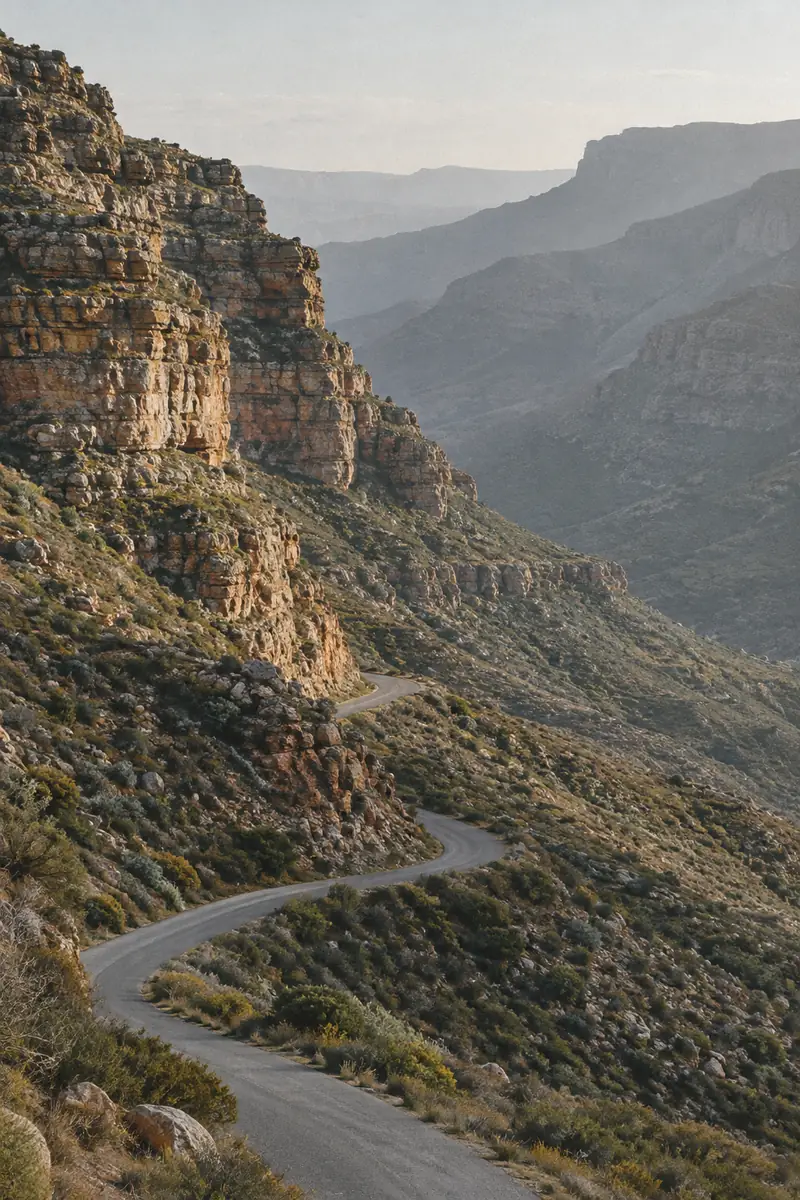
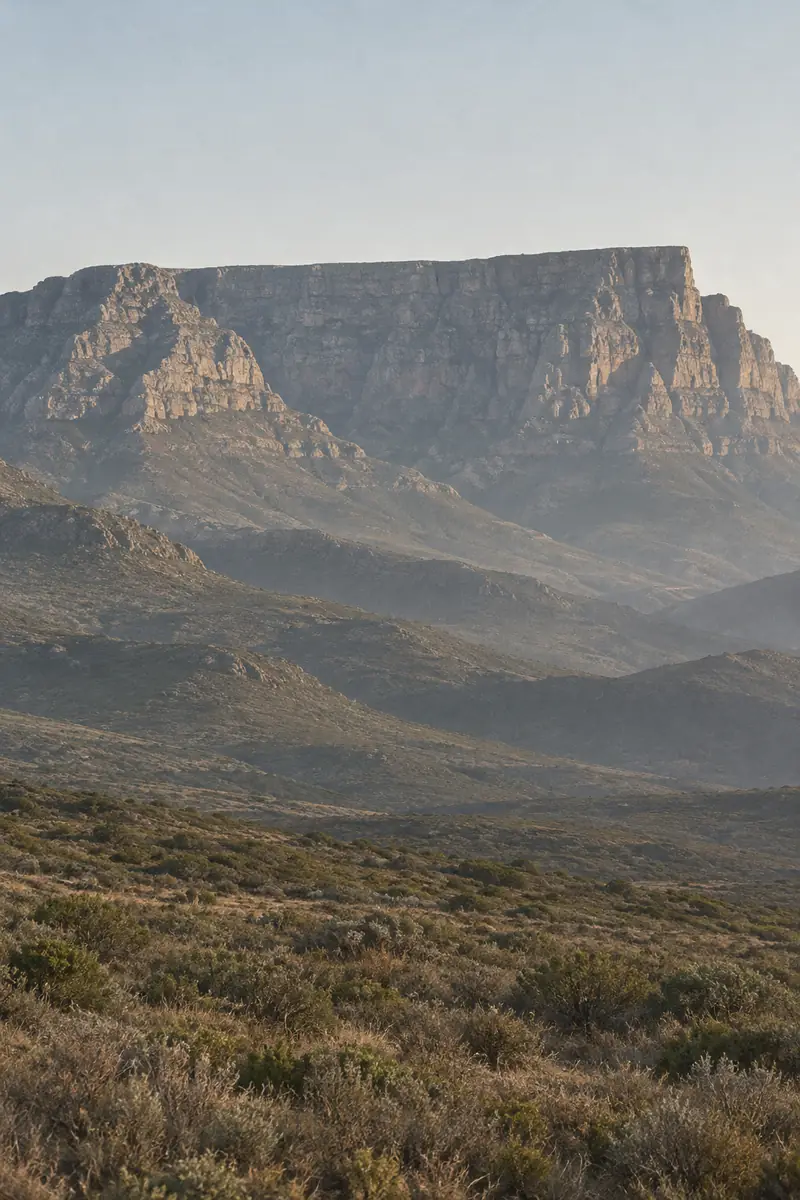
Put Table Mountain in the Mountain card
The card's caption says "Table Mountain and the passes behind it" and the
image was an unnamed sandstone pass. Regenerated with the flat summit in
frame, still empty landscape. Alt text and the recorded prompt follow it.

diff --git a/ar/index.html b/ar/index.html
@@ -186,7 +186,7 @@
     <div class="grid grid--3" style="margin-top:2.5rem">
       <article class="loc"><img class="loc__img" src="/assets/loc-dunes.webp" width="800" height="1200" loading="lazy" decoding="async" alt="حافة كثيب رملي في ضوء منخفض، مع تعرّجات الرمل."><div class="loc__body"><h3>كثبان أتلانتس</h3><p>أقرب ما في كيب تاون إلى مشهد الصحراء. يتطلّب تصريحاً ونقلاً بدفع رباعي.</p><span class="ph-label">صورة مرجعية مولّدة بالذكاء الاصطناعي، ليست من تصويرنا</span></div></article>
       <article class="loc"><img class="loc__img" src="/assets/loc-ocean.webp" width="800" height="1200" loading="lazy" decoding="async" alt="صخور غرانيتية داكنة على شاطئ أطلسي خالٍ تحت ضوء رمادي مستوٍ."><div class="loc__body"><h3>المحيط</h3><p>ساحل الأطلسي، ضوء بارد وأفق ممتد.</p><span class="ph-label">صورة مرجعية مولّدة بالذكاء الاصطناعي، ليست من تصويرنا</span></div></article>
-      <article class="loc"><img class="loc__img" src="/assets/loc-mountain.webp" width="800" height="1200" loading="lazy" decoding="async" alt="ممر جبلي من الحجر الرملي المتطبّق في ويسترن كيب، خالٍ في ضوء العصر."><div class="loc__body"><h3>الجبل</h3><p>جبل الطاولة والممرات خلفه.</p><span class="ph-label">صورة مرجعية مولّدة بالذكاء الاصطناعي، ليست من تصويرنا</span></div></article>
+      <article class="loc"><img class="loc__img" src="/assets/loc-mountain.webp" width="800" height="1200" loading="lazy" decoding="async" alt="قمة جبل الطاولة المسطّحة فوق منحدرات خالية في ضباب العصر."><div class="loc__body"><h3>الجبل</h3><p>جبل الطاولة والممرات خلفه.</p><span class="ph-label">صورة مرجعية مولّدة بالذكاء الاصطناعي، ليست من تصويرنا</span></div></article>
       <article class="loc"><img class="loc__img" src="/assets/loc-garden.webp" width="800" height="1200" loading="lazy" decoding="async" alt="ممشى حديقة مظلّل بجوار جدار أبيض، بضوء مبقّع عبر الأوراق."><div class="loc__body"><h3>الحدائق</h3><p>خضرة وخصوصية وظل. مناسبة للتصوير المغلق.</p><span class="ph-label">صورة مرجعية مولّدة بالذكاء الاصطناعي، ليست من تصويرنا</span></div></article>
     </div>
     <p class="fine" style="margin-top:1.5rem">الصور أعلاه مراجع مولّدة بالذكاء الاصطناعي توضّح المواقع، وكل واحدة موسومة. ليست من تصويرنا وليست عمل أحد آخر. نستبدلها بلقطاتنا بعد أول جلسة.</p>

diff --git a/index.html b/index.html
@@ -202,7 +202,7 @@
     <div class="grid grid--3" style="margin-top:2.5rem">
       <article class="loc"><img class="loc__img" src="/assets/loc-dunes.webp" width="800" height="1200" loading="lazy" decoding="async" alt="A curved dune crest in low afternoon light, ripple texture across the sand."><div class="loc__body"><h3>Atlantis Dunes</h3><p>Cape Town&#39;s closest look to a desert. Permit and 4x4 transport required.</p><span class="ph-label">AI reference image, not our photography</span></div></article>
       <article class="loc"><img class="loc__img" src="/assets/loc-ocean.webp" width="800" height="1200" loading="lazy" decoding="async" alt="Dark granite boulders on an empty Atlantic beach under flat grey light."><div class="loc__body"><h3>Ocean</h3><p>Atlantic coastline, cold light, long horizons.</p><span class="ph-label">AI reference image, not our photography</span></div></article>
-      <article class="loc"><img class="loc__img" src="/assets/loc-mountain.webp" width="800" height="1200" loading="lazy" decoding="async" alt="A layered sandstone mountain pass in the Western Cape, empty in late afternoon light."><div class="loc__body"><h3>Mountain</h3><p>Table Mountain and the passes behind it.</p><span class="ph-label">AI reference image, not our photography</span></div></article>
+      <article class="loc"><img class="loc__img" src="/assets/loc-mountain.webp" width="800" height="1200" loading="lazy" decoding="async" alt="Table Mountain’s flat summit above empty scrub slopes in late afternoon haze."><div class="loc__body"><h3>Mountain</h3><p>Table Mountain and the passes behind it.</p><span class="ph-label">AI reference image, not our photography</span></div></article>
       <article class="loc"><img class="loc__img" src="/assets/loc-garden.webp" width="800" height="1200" loading="lazy" decoding="async" alt="A shaded garden path beside a whitewashed wall, dappled light falling through leaves."><div class="loc__body"><h3>Garden</h3><p>Green, private, shaded. Calm for closed sets.</p><span class="ph-label">AI reference image, not our photography</span></div></article>
     </div>
     <p class="fine" style="margin-top:1.5rem">The images above are AI-generated references showing the locations, each one labelled. They are not our photographs and not anyone else&rsquo;s work. We replace them with our own frames after the first shoot.</p>

diff --git a/IMAGE-PROMPTS.md b/IMAGE-PROMPTS.md
@@ -67,12 +67,14 @@ read as one body of work. Downsized to 800×1200 WebP for the site.
 
 ### Mountain
 
-> A portrait-format photograph of a steep mountain pass in the Western Cape,
-> South Africa — layered sandstone cliffs and dry scrub slopes receding into
-> soft haze, late afternoon side light raking across the rock faces.
-> Completely empty: no people, no vehicles, no road markings, no buildings, no
-> signage. Muted palette of warm stone, dust, sage green and pale grey,
-> slightly desaturated. Quiet and vast rather than dramatic. Editorial
+> A portrait-format photograph of Table Mountain, Cape Town, seen from a
+> distance across empty ground — its long flat summit plateau and steep
+> buttressed cliff face filling the upper half of the frame, with dry scrub
+> slopes and layered ridges receding into soft haze below. Late afternoon side
+> light raking across the rock face, the plateau clean against a pale sky.
+> Completely empty: no people, no vehicles, no buildings, no cable car, no
+> roads, no signage. Muted palette of warm stone, dust, sage green and pale
+> grey, slightly desaturated. Quiet and vast rather than dramatic. Editorial
 > location reference, shot on medium format film, fine natural grain, matte
 > finish.
 
@@ -136,8 +138,8 @@ Mirrored so the composition suits a right-to-left layout.
 ## When a new file comes back
 
 - Export as **WebP, quality ~80**, and keep every image **under 150 KB** —
-  fonts are already 256 KB of the page weight. The mountain card needed
-  quality 70 to get there.
+  fonts are already 256 KB of the page weight. The mountain card is encoded
+  at quality 72 to stay inside it.
 - Put it in `/assets/`, keep the full-resolution PNG as `assets/_src-<name>.png`.
 - Location cards are 800×1200 and need `width`, `height` and `loading="lazy"`,
   or the grid shifts as they load.
